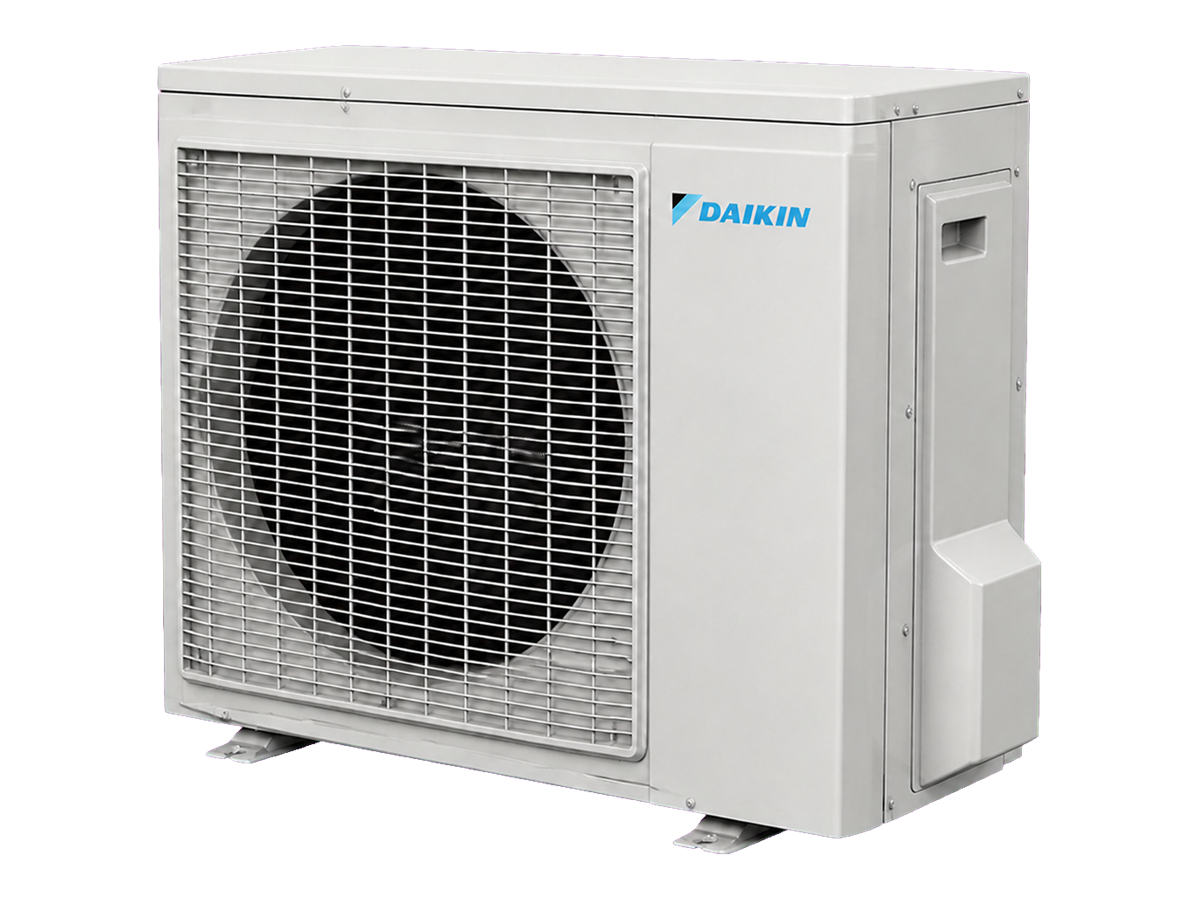
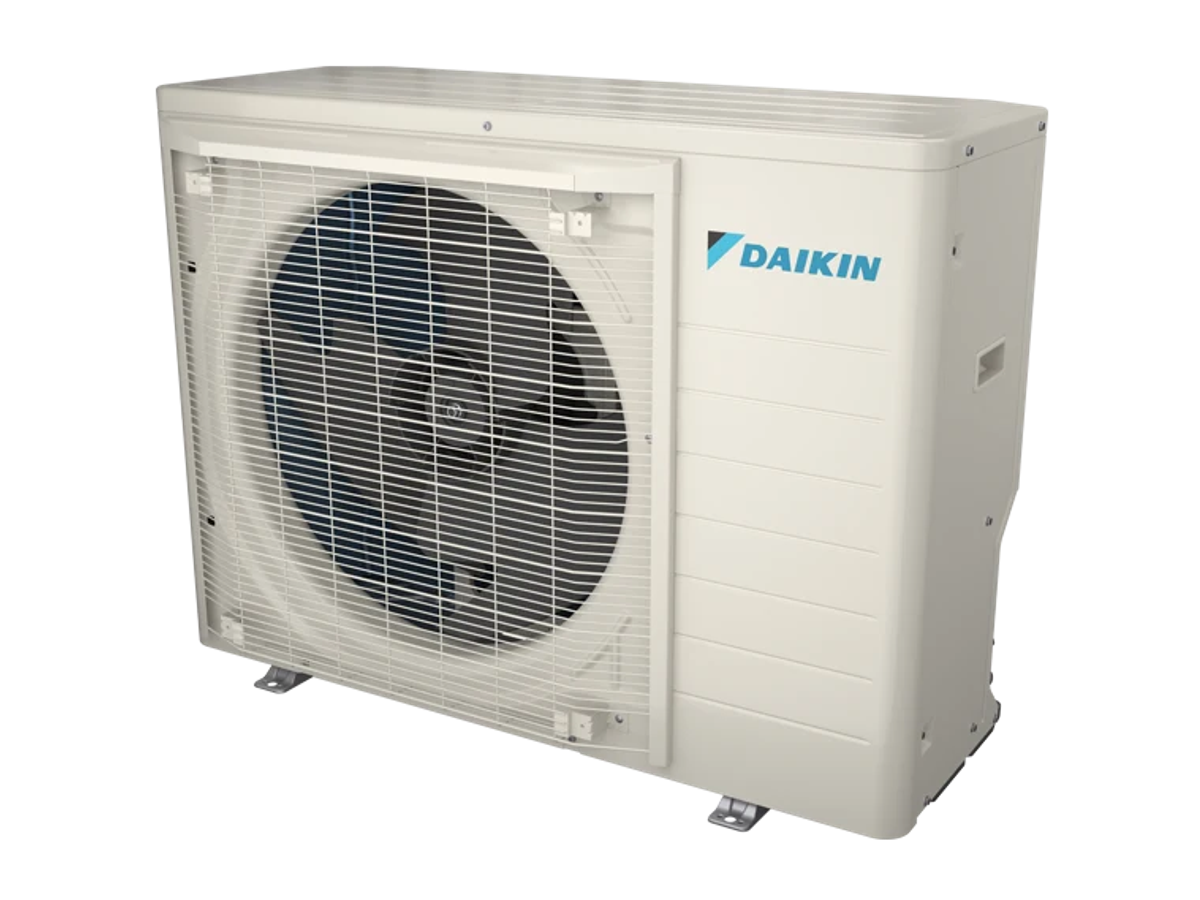
Accueil : vraies photos officielles dans « Comparez les modèles »
Les trois unités de la section sont maintenant des détourages de photos officielles déjà
vérifiées dans le projet (Daikin FIT Aurora, Mitsubishi Electric FS, Fujitsu AOUH12KZAH1) :
fond blanc retiré par remplissage depuis les bords, machine intacte, même gabarit 1200 × 900
que les anciens fichiers. Rien d'autre ne change dans la section. Provenance consignée dans
public/images/marques/SOURCES.json.

diff --git a/src/components/home/CompareSectionAnimated.tsx b/src/components/home/CompareSectionAnimated.tsx
@@ -18,7 +18,7 @@ const BARS = [
   { label: "Efficacité", pct: 82 },
 ];
 
-/* Photos officielles détourées (1200 × 900, contenu de hauteur identique) */
+/* Photos officielles détourées (1200 × 900, machine alignée en bas ; provenance dans public/images/marques/SOURCES.json) */
 const UNITS = [
   { src: "/images/marques/thermopompe-daikin-transparente.png", alt: "Unité extérieure Daikin" },
   { src: "/images/marques/thermopompe-mitsubishi-electric-transparente.png", alt: "Unité extérieure Mitsubishi Electric" },
